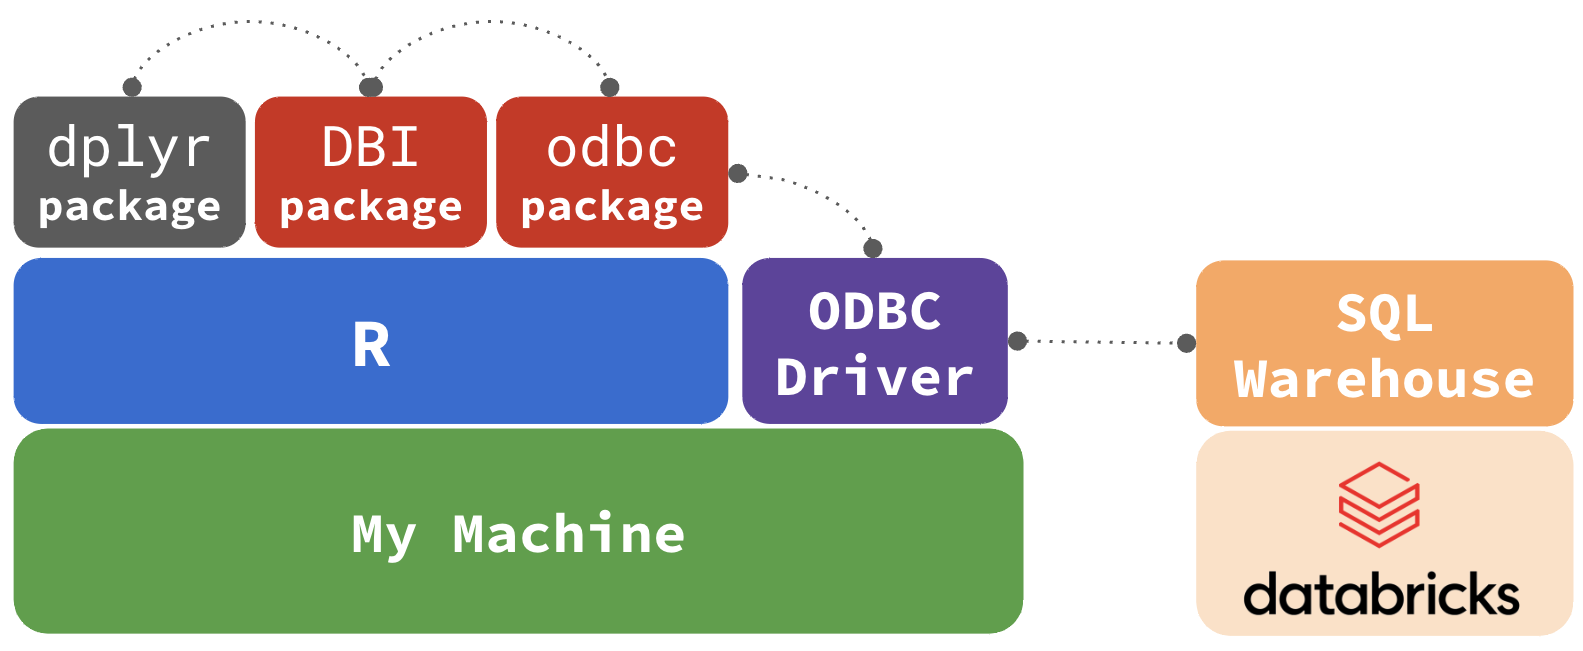
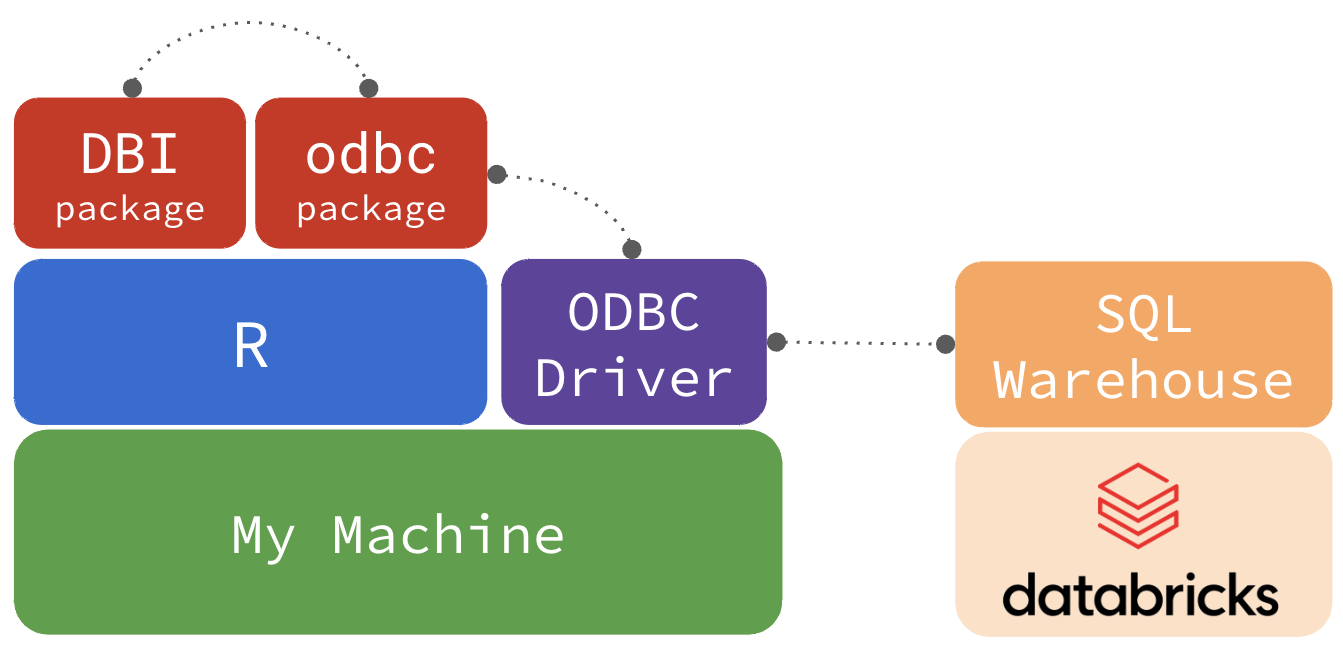
Removes reference to DSN, removes dplyr from 'how it connects' diagram

diff --git a/materials/presentation/theme.scss b/materials/presentation/theme.scss
@@ -67,7 +67,7 @@ $font-family-sans-serif: "Source Sans Pro", !default;
 }
 
 .custom code {
-  font-size: 70px;
+  font-size: 80px;
   line-height: 1.6;
 }
 
@@ -90,7 +90,7 @@ $font-family-sans-serif: "Source Sans Pro", !default;
 }
 
 .custom2 code {
-  font-size: 50px;
+  font-size: 60px;
   font-weight: 1000;
 }
 
